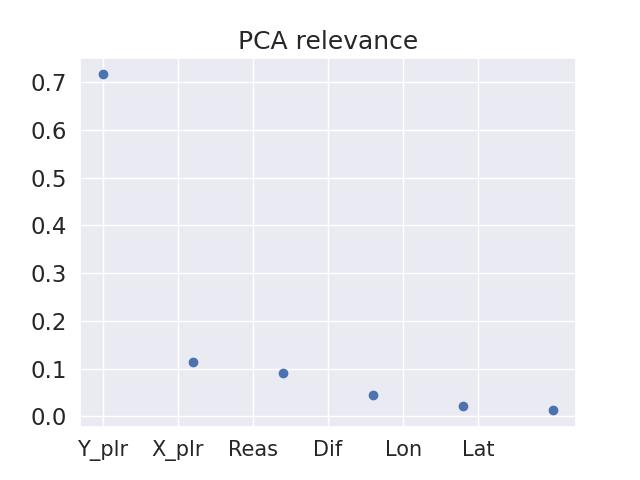
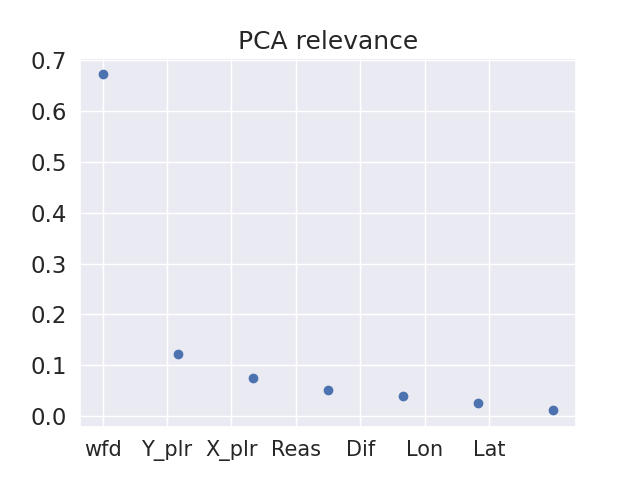
Working fine PCA->DBSCAN->RandomForest

diff --git a/src/test.py b/src/test.py
@@ -1,0 +1,95 @@
+import sys
+import pathlib
+from matplotlib.pyplot import scatter
+import numpy as np
+dirname  = str(pathlib.Path(__file__).parent.absolute()) +"/GPS_data"
+sys.path.insert(1, dirname)
+import GPS_data
+
+def build_forest(set):
+    Y = (set.filter_by_name['ASSET']==153).astype(int).to_numpy()
+
+    wind = set.Feature_Generator("wind",set.filter_by_name)
+    wfd  = set.Feature_Generator("WFD",set.filter_by_name)
+    X = wind
+    X = np.column_stack((X,wfd))
+    X = np.column_stack((X,set.filter_by_name['REASONS'].to_numpy()))
+    print("build Forest")
+    set.Random_Forest_analsysis(X,Y,10,4)
+    print("Test Forest")
+
+    it_is = []
+    set.filter_one_sample(153,1)
+    testing_size = len(set.filter_by_name)-1
+
+    for n in range (10,testing_size):
+        wind = set.Feature_Generator("wind",set.filter_by_name.iloc[0:n])
+        wfd  = set.Feature_Generator("WFD",set.filter_by_name.iloc[0:n])
+
+        X = wind
+        X = np.column_stack((X,wfd))
+        X = np.column_stack((X,set.filter_by_name['REASONS'].to_numpy()[0:n]))
+
+        var = set.Forest.predict(X)
+        avg_recognized = np.average(var)
+        it_is.append(avg_recognized)
+        #print("avg_"+str(n)+": "+str(avg_recognized))
+    
+    set.plot_generic(it_is)
+    #set.plot_map()
+
+def random_forest_test():
+    set = GPS_data.Data_set_reader()
+    set.filter_one_sample(153,0)
+    set.append_frame(153,2)
+
+    set.append_frame(115,0)
+    #set.append_frame(115,1)
+    #set.append_frame(78,0)
+    build_forest(set)
+  
+
+
+def PCA_DBSCAN_test():
+    set = GPS_data.Data_set_reader()
+    set.filter_one_sample(153,0)
+    set.append_frame(78,0)
+    set.PCA_analysis()
+    set.DBSCAN_analysis(set.PCA.mat_reduced[:,0],set.PCA.mat_reduced[:,1])
+
+    #other_set = Data_set_reader()
+    #other_set.filter_one_sample(153,1)
+    #other_set.PCA_analysis()
+    #set.DBSCAN.Test_DBSCAN(other_set.PCA.mat_reduced[:,0],other_set.PCA.mat_reduced[:,1])
+    #lat = set.filter_by_name["LATITUDE"].to_numpy()[1:]
+    #lon = set.filter_by_name["LONGITUDE"].to_numpy()[1:]
+    #set.DBSCAN_analysis(lon,lat)
+
+def Better_trainig():
+    set = GPS_data.Data_set_reader()
+    IDs = set.get_all_IDS()
+    print(len(IDs))
+    n_clusters = []
+    n_noise    = []
+    n_ids      = []
+    for n in IDs:
+        set.filter_one_sample(153,0)
+        set.append_frame(n,0)
+        set.PCA_analysis() #set.PCA.mat_reduced[0:,0]
+        set.DBSCAN_analysis(set.PCA.mat_reduced[:,[0,1]],set.PCA.mat_reduced[:,2])
+        if(set.DBSCAN.n_clusters_ == 2 and set.DBSCAN.n_noise_ < 100):
+            #n_clusters.append(set.DBSCAN.n_clusters_)
+            #n_noise.append(set.DBSCAN.n_noise_)
+            n_ids.append(n)
+    IDs = n_ids
+    print(IDs)
+    
+    set.filter_one_sample(153,0)
+    set.append_frame(153,1)
+
+    for n in IDs:
+        set.append_frame(n,0)
+    build_forest(set)
+    
+    #set.plot_generic(n_clusters,xi = IDs,scatter=True)
+    #set.plot_generic(n_noise,   xi = IDs,scatter=True)

diff --git a/src/Data_representation/Features_generator.py b/src/Data_representation/Features_generator.py
@@ -50,19 +50,22 @@ class Feature_Generator():
     def Generate_weight_freq_domain(self,df):
         import datetime
         import time
-        time_diffs_size   = len(df.TIME)
+
+        time_diffs_size   = len(df.index)
         samples_time_diff = np.zeros(time_diffs_size)
         self.wfd          = np.zeros(time_diffs_size)
 
-        for i in range(1,time_diffs_size):
-            dt_i = datetime.datetime.strptime(df.TIME[i-1], "%m/%d/%Y %H:%M:%S %p")
+        j = 0
+        for i in range(df.index[0]+1,df.index[0]+time_diffs_size):
+            dt_i = datetime.datetime.strptime(df.TIME[i-1][:-3], "%m/%d/%Y %H:%M:%S")
             posix_dt_i = time.mktime(dt_i.timetuple())
 
-            dt_f = datetime.datetime.strptime(df.TIME[i], "%m/%d/%Y %H:%M:%S %p")
+            dt_f = datetime.datetime.strptime(df.TIME[i][:-3], "%m/%d/%Y %H:%M:%S")
             posix_dt_f = time.mktime(dt_f.timetuple())
 
             diff = posix_dt_f-posix_dt_i
-            samples_time_diff[i] = diff
+            samples_time_diff[j] = diff
+            j+=1
         
         #samples_time_diff = self.normalize_1d(samples_time_diff)
 
@@ -78,15 +81,19 @@ class Feature_Generator():
         normal_dist = norm.pdf(x, mu, std)
         diff_threshold = x[(len(self.diffs)*90)//100]
 
-        for i in range(0,len(samples_time_diff)-1):
+        j = 0
+        for i in range(df.index[0]+1,df.index[0]+time_diffs_size-1):
+
             reason = df['REASONS'][i]
 
-            if(self.diffs[i] <= diff_threshold and reason!=7): # reason 7 = device is on
-                self.wfd[i]   =  samples_time_diff[i]/avg_sample_rate
+            if(self.diffs[j] <= diff_threshold and reason!=7): # reason 7 = device is on
+                self.wfd[j]   =  samples_time_diff[j]/avg_sample_rate
             else:
-                self.wfd[i] = 1
-
-        import matplotlib.pyplot as plt
-        xi = list(range(len(self.wfd)))
-        plt.plot(xi,self.wfd, 'b') # Draw blue line
-        plt.show()
+                self.wfd[j] = 1
+            j+=1
+            
+        self.wfd = self.normalize_1d(self.wfd,t_min=-1,t_max=1)
+        #import matplotlib.pyplot as plt
+        #xi = list(range(len(self.wfd)))
+        #plt.plot(xi,self.wfd, 'b') # Draw blue line
+        #plt.show()

diff --git a/src/main.py b/src/main.py
@@ -7,6 +7,7 @@ dirname  = str(pathlib.Path(__file__).parent.absolute()) +"/GPS_data"
 sys.path.insert(1, dirname)
 import GPS_data
 from params import *
+import test
 
 def main():
     if not os.path.exists(FILTERED_FILE):
@@ -15,45 +16,9 @@ def main():
             set.filter_ID(n) # end data is not used
             set.densisty_coord()   # save data with low variance 
     
-    set = GPS_data.Data_set_reader()
-    set.filter_one_sample(153,0)
-    set.filter_one_sample(153,1)
-    #set.filter_one_sample(153,1)
-
-    set.append_frame(115,0)
-    set.append_frame(78,0)
-    #set.append_frame(40,0)
-    Y = (set.filter_by_name['ASSET']==153).astype(int).to_numpy()
-    X = set.Feature_Generator("wind",set.filter_by_name)
-    X = np.column_stack((X,set.filter_by_name['REASONS'].to_numpy()))
-
-    set.Random_Forest_analsysis(X,Y,10,3)
-
-    it_is = []
-    set.filter_one_sample(153,2)
-    testing_size = len(set.filter_by_name)-1
-    for n in range (1,testing_size):
-        X = set.Feature_Generator("wind",set.filter_by_name[0:n])
-        X = np.column_stack((X,set.filter_by_name['REASONS'].to_numpy()[0:n]))
-        var = set.Forest.predict(X)
-        avg_recognized = np.average(var)
-        it_is.append(avg_recognized)
-        print("avg_"+str(n)+": "+str(avg_recognized))
-    
-    set.plot_generic(it_is)
-    set.plot_map()
-    """
-    #set.append_frame(78,1)
-    set.PCA_analysis()
-    set.DBSCAN_analysis(set.PCA.mat_reduced[:,0],set.PCA.mat_reduced[:,1])
-    #other_set = Data_set_reader()
-    #other_set.filter_one_sample(153,1)
-    #other_set.PCA_analysis()
-    #set.DBSCAN.Test_DBSCAN(other_set.PCA.mat_reduced[:,0],other_set.PCA.mat_reduced[:,1])
-    #lat = set.filter_by_name["LATITUDE"].to_numpy()[1:]
-    #lon = set.filter_by_name["LONGITUDE"].to_numpy()[1:]
-    #set.DBSCAN_analysis(lon,lat)
-    """
+    #test.random_forest_test()
+    #test.PCA_DBSCAN_test()
+    test.Better_trainig()
 
     if("map" in sys.argv):
         set.plot_map()

diff --git a/src/ML_methods/PCA/PCA.py b/src/ML_methods/PCA/PCA.py
@@ -5,6 +5,7 @@ import sys, pathlib
 
 dirname  = str(pathlib.Path(__file__).parent.absolute())+"/../../"
 sys.path.insert(0, dirname)
+from params import PLT_PCA
 from params import PLT_COVARIANCE
 
 sys.path.insert(0, dirname+"Data_representation")
@@ -37,7 +38,7 @@ class PCA():
         #rowvar is set to False to get the covariance matrix in the required dimensions.
         cov_mat = np.cov(X_meaned , rowvar = False)
         
-        cols = ['Lat', 'Lon', 'Dif', 'Reas', 'X_plr','Y_plr']
+        cols = ['Lat', 'Lon', 'Dif', 'Reas', 'X_plr','Y_plr','wfd']
 
         if(PLT_COVARIANCE == True):
 
@@ -99,6 +100,8 @@ def PCA_analysis(self):
     ftg = Features_generator.Feature_Generator()
     ftg.Generate_diffs(self.filter_by_name)
     ftg.Generate_wind(self.filter_by_name)
+    ftg.Generate_weight_freq_domain(self.filter_by_name)
+    
 
     lat = self.filter_by_name["LATITUDE"].to_numpy()[1:]
     lat = lat*1000
@@ -118,14 +121,16 @@ def PCA_analysis(self):
     N   = ftg.normalize_1d(raw,t_min=-1,t_max=1)
     X   = np.column_stack((X,N))
     
+    X   = np.column_stack((X,ftg.wfd[1:]))
     X   = np.column_stack((X,ftg.X_polar[1:]))
     X   = np.column_stack((X,ftg.Y_polar[1:]))
-    
-    self.PCA = PCA(X,2, plot=False)
 
-    target = self.filter_by_name.iloc[:,1]
-    sns.scatterplot(x=self.PCA.mat_reduced[:,0], y=self.PCA.mat_reduced[:,1],s=60,hue = target[1:],palette= 'dark:salmon_r')
-    plt.show()
+    
+    self.PCA = PCA(X,4, plot=False)
+    if(PLT_PCA):
+        target = self.filter_by_name.iloc[:,1]
+        sns.scatterplot(x=self.PCA.mat_reduced[:,0], y=self.PCA.mat_reduced[:,1],s=60,hue = target[1:],palette= 'dark:salmon_r')
+        plt.show()
 
 
 

diff --git a/src/GPS_data/GPS_data.py b/src/GPS_data/GPS_data.py
@@ -78,7 +78,7 @@ class Data_set_reader(Data_Set):
     
     def DBSCAN_analysis(self,X,Y):
         self.DBSCAN = Db_SCAN.DB_SCAN(X,Y)
-        self.DBSCAN.plot_DBSCAN()
+        #self.DBSCAN.plot_DBSCAN()
     
     def Random_Forest_analsysis(self,X,Y,forest_size,n_features):
         self.Forest = RandomForest.RandomForest(X, Y, forest_size, n_features, Y.shape[0])
@@ -86,7 +86,7 @@ class Data_set_reader(Data_Set):
 
     def Feature_Generator(self,feature,df):
         data = None
-        gen     = Features_generator.Feature_Generator()
+        gen  = Features_generator.Feature_Generator()
         if(feature == "diffs"):
             gen.Generate_diffs(df)
             data = gen.diffs
@@ -96,12 +96,14 @@ class Data_set_reader(Data_Set):
             feature = gen.X_polar
             data = np.column_stack((feature,gen.Y_polar))
 
-        elif(feature == "Frequency"):
+        elif(feature == "WFD"):
             gen.Generate_weight_freq_domain(df)
             data = gen.wfd
         
         return data
-        
+    
+    def get_all_IDS(self):
+        return self.df['ASSET'].unique()
 
     def filter_one_sample(self,ID,batch_ID):
         self.vehicule_id = ID

diff --git a/src/ML_methods/DB_SCAN/Db_SCAN.py b/src/ML_methods/DB_SCAN/Db_SCAN.py
@@ -15,8 +15,9 @@ class DB_SCAN():
             self.X   = X
             self.X   = np.column_stack((self.X,Y))
             self.X   = StandardScaler().fit_transform(self.X)
+
             # Compute DBSCAN
-            self.db = DBSCAN(eps=0.6, min_samples=13,algorithm='kd_tree').fit(self.X)
+            self.db = DBSCAN(eps=0.7, min_samples=10,algorithm='kd_tree').fit(self.X)
 
             self.core_samples_mask = np.zeros_like(self.db.labels_, dtype=bool)
             self.core_samples_mask[self.db.core_sample_indices_] = True
@@ -24,8 +25,8 @@ class DB_SCAN():
             # Number of clusters in labels, ignoring noise if present.
             self.n_clusters_ = len(set( self.labels)) - (1 if -1 in  self.labels else 0)
             self.n_noise_    = list( self.labels).count(-1)
-            print('Estimated number of clusters: %d' % self.n_clusters_)
-            print('Estimated number of noise points: %d' % self.n_noise_)
+            #print('Estimated number of clusters: %d' % self.n_clusters_)
+            #print('Estimated number of noise points: %d' % self.n_noise_)
             
       def Test_DBSCAN(self,X,Y):
             self.X   = X

diff --git a/src/Data_representation/Visualize_data.py b/src/Data_representation/Visualize_data.py
@@ -26,9 +26,13 @@ def plot_map(self):
 
     mplleaflet.show()
 
-def plot_generic(self,arr):
-    xi = list(range(len(arr)))
-    plt.plot(xi,arr,'b') # Draw blue line
+def plot_generic(self,arr,xi = None,scatter = False):
+    if(xi == None):
+        xi = list(range(len(arr)))
+    if(scatter):
+        plt.scatter(xi, arr)
+    else:
+        plt.plot(xi,arr,'b') # Draw blue line
     plt.show()
 
 def plot_speed(self):

diff --git a/src/ML_methods/Trees/RandomForest.py b/src/ML_methods/Trees/RandomForest.py
@@ -8,7 +8,6 @@ import numpy as np
 #             This is usually equal to total number of rows but can be reduced 
 #             to increase performance and decrease correlation of trees in some cases.
 
-
 class RandomForest():
     def __init__(self, x, y, n_trees, n_features, sample_sz, depth=10, min_leaf=5):
         #just set the seed

diff --git a/src/params.py b/src/params.py
@@ -9,5 +9,6 @@ THRESHOLD_DIFF = 20
 START_DATA  = 0
 END_DATA    = -1
 
+PLT_PCA        = False
 PLT_ENABLE     = False
 PLT_COVARIANCE = False
